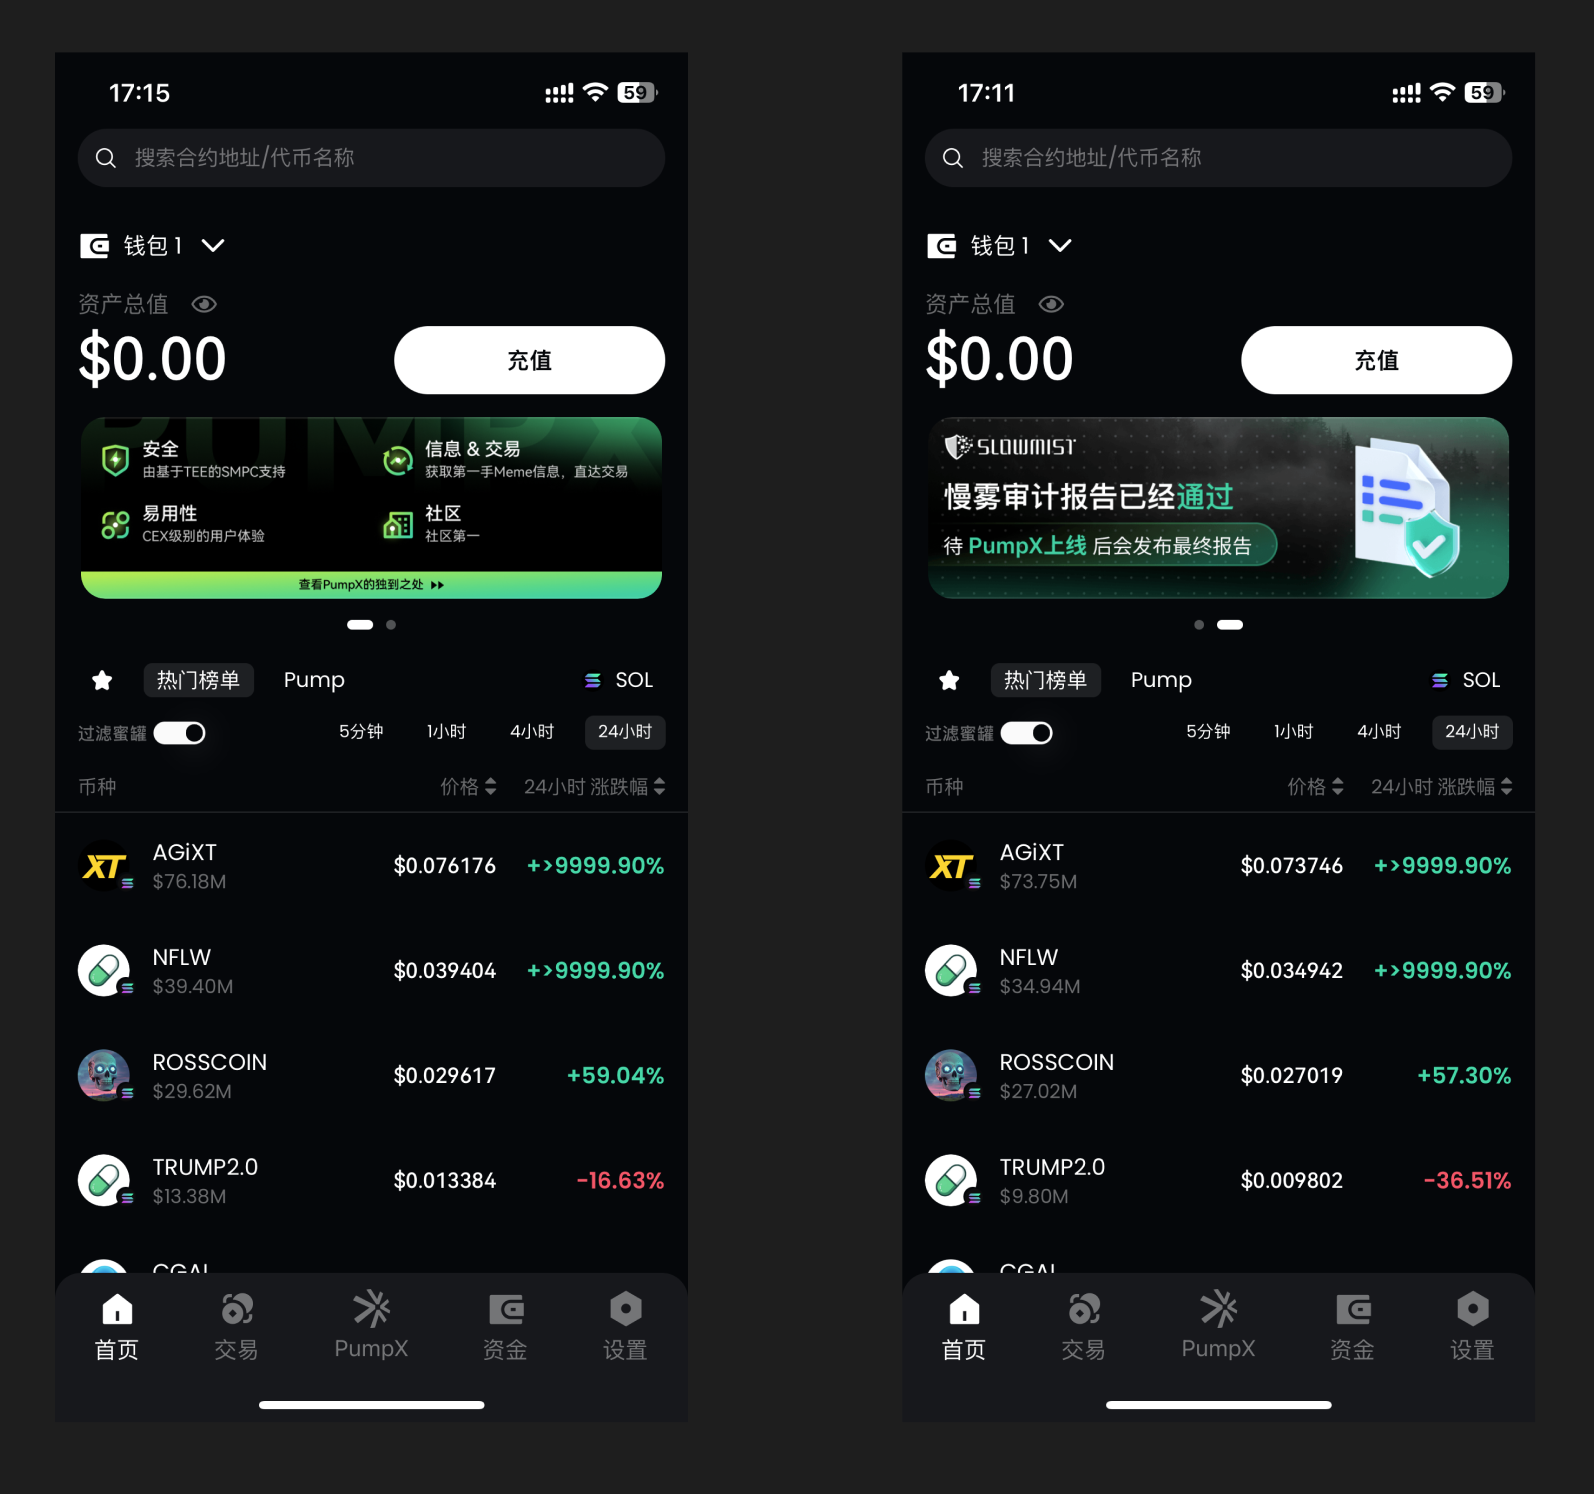
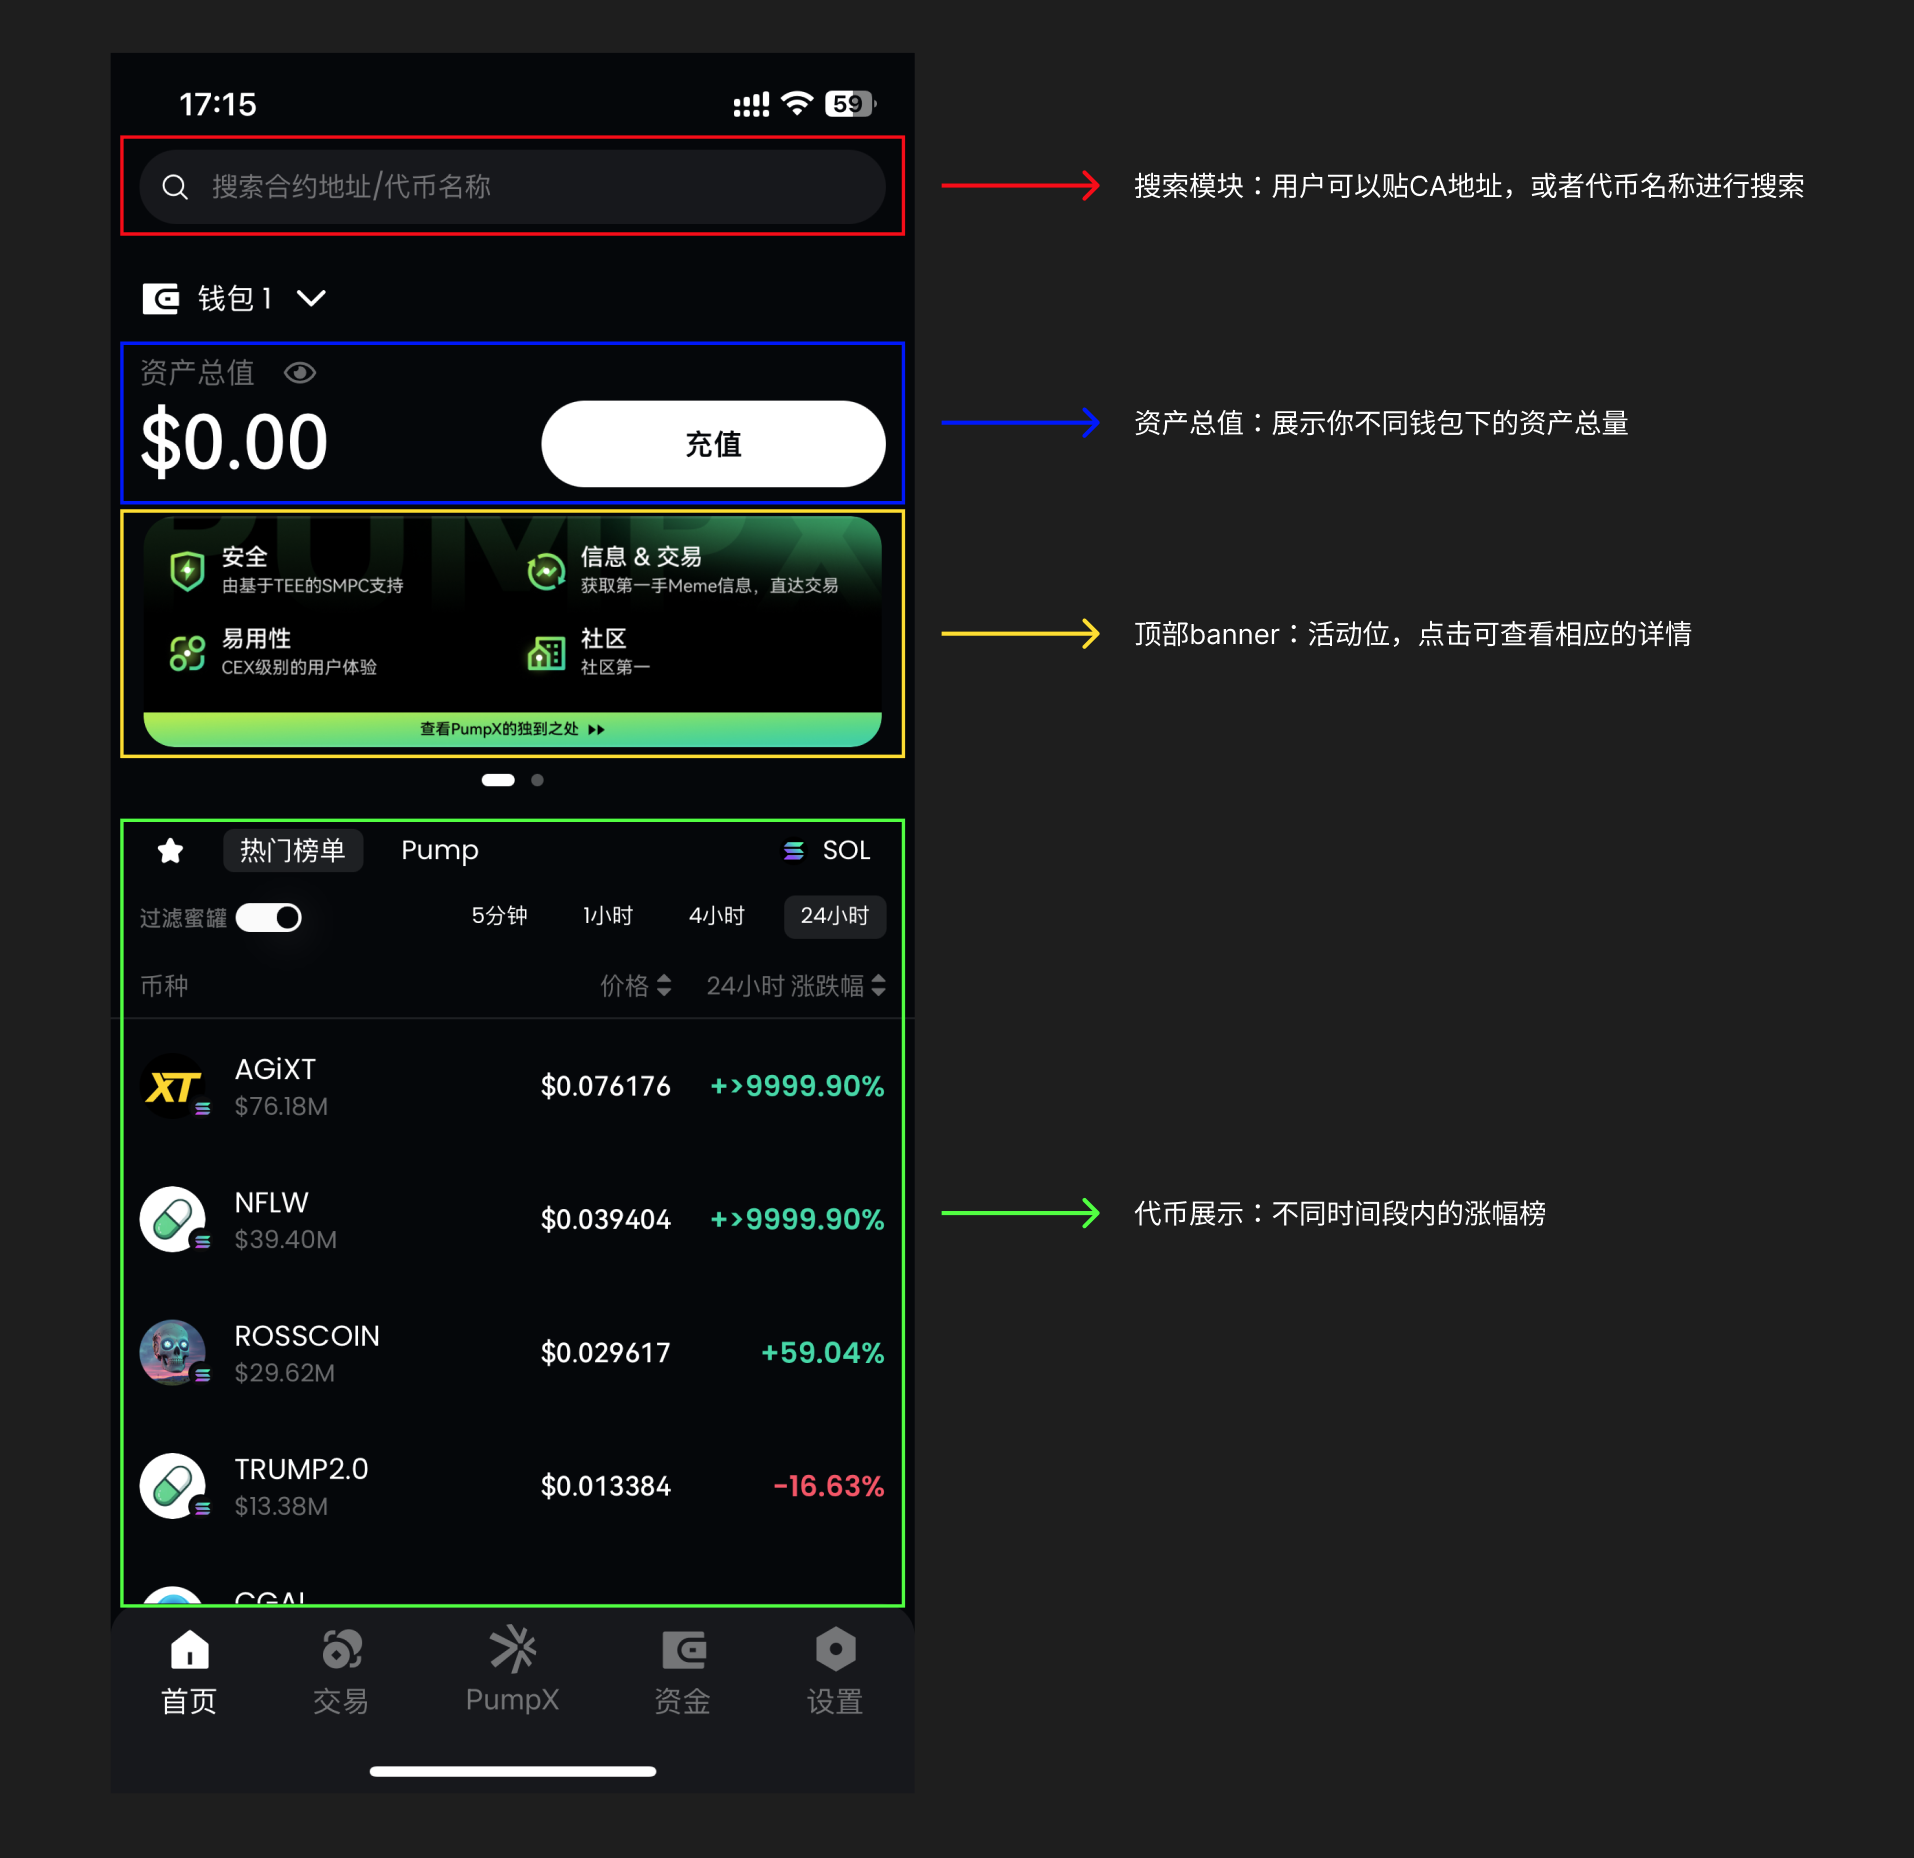
GITBOOK-34: No subject

diff --git a/pumpx-jie-shao/quickstart.md b/pumpx-jie-shao/quickstart.md
@@ -4,17 +4,76 @@ icon: globe-pointer
 
 # 快速上手
 
-### 1. 首页
+### 1. 下载App
+
+目前苹果应用商店和谷歌应用商店均在审核中，暂时用户需要通过 「官网」 或者 「邀请链接」 进行下载。
+
+* 通过 「官网」：点击 [https://www.pumpx.ai](https://www.pumpx.ai) 进入官网。如果你是苹果手机，点击左侧按钮下载；如果你是安卓手机，点击右侧按钮下载
+
+<figure><img src="../.gitbook/assets/下载.png" alt=""><figcaption></figcaption></figure>
+
+如果你是苹果手机，点击红圈中的按钮后，会跳转至以下页面：
+
+* 如果你有Testflight App，则可以直接点击第二步中的按钮去下载 PumpX App
+* 如果你没有Testflight App，则可以从第一步开始去苹果应用商店先下载Testflight App，之后再点击第二步中的按钮，去下载 PumpX App
+
+如果你是安卓手机，点击蓝圈中的按钮后，会直接开始下载安卓APK，下载到本地后，可以直接点击进行应用安装
+
+* 如果你是小米或者华为的手机，可能存在安装的时候该机型不允许你安装的提示，不用担心产品的风险，我们已经通过了顶级安全公司 「慢雾」 的审计，此时直接断网或者开启飞行模式后，再次安装即可
+
+
+
+你也有可能是通过点击他人发给你的邀请链接进行下载安装，以此邀请链接为例：[https://www.pumpx.ai/refer?inviteCode=JAZLII](https://www.pumpx.ai/refer?inviteCode=JAZLII)。 当你点击此链接后，会直接弹出注册的页面，按照步骤完成注册账号之后，再去下载App进行登录使用。
+
+
+
+### 2. App首页
 
 <figure><img src="../.gitbook/assets/image.png" alt=""><figcaption></figcaption></figure>
 
-* 用户可以通过复制CA或者代币名称进行搜索
-* 顶部展示的轮播图，用户可以点击后查看详情内容
-* 底部展示的是不同时间段内，涨跌幅靠前的相应热门代币
+使用你注册好的账号进行登录后，你会进入到App首页。首页包含4个模块，如上图所示：
 
-### 2. 交易
+1. 搜索模块：你可以通过粘贴CA或者代币的名称进行搜索，然后交易
+2. 资产模块：首页会罗列出当前钱包下你的资产总量，你可以切换钱包进行不同钱包的查询
+3. 顶部banner：运营活动位，会根据市场环境的变化，展示不同的banner
+4. 代币展示：根据时间段的不同，展示对应的涨幅排行榜
+
+
+
+### 3. 充值（入金）
+
+如果你是刚登录App，那么首页会展示「充值」入口，如2中的图片所示。你也可以通过在「资金」页面，点击「充值」进行入金。
+
+<figure><img src="../.gitbook/assets/image (2).png" alt=""><figcaption></figcaption></figure>
+
+在这个页面中，你可以看到一个二维码和一串Solana地址。接下来以币安交易所为例，如何通过币安交易所进行转账至PumpX钱包中（注：其他的交易所也是类似的步骤）。
 
 <figure><img src="../.gitbook/assets/image (3).png" alt=""><figcaption></figcaption></figure>
+
+1. 首先确保你的交易所钱包中有SOL资产，然后在交易所中对SOL进行提现
+2. 第一步：对SOL资产进行提现，点击「提现」按钮
+3. 第二步：选择 「通过区块链转账」&#x20;
+4. 第三步：此处需要填写地址和选择网络。地址就填写你PumpX中收款页面的地址，网络则选择Solana网络。接下来再填写你需要转账的Sol数量
+5. 第四步：全部填写完毕后，点击「提现」，然后等待Sol网络执行你的操作，过一会你就应该能在PumpX资产页面看到对应的Sol数量
+
+现在你已经有了Sol的资产了，可以进行「交易」相关的操作了。
+
+
+
+### 4. 交易
+
+目前PumpX有3大交易的场景：
+
+1. 首页有基于不同时间段内的涨幅排行榜，这就相当于全网该网络下交易量最靠前的代币
+2. PumpX主打的AI推荐代币的地方，即中间的PumpX，我们基于代币的k线量价、市场的趋势热度、聪明钱的买卖信息等综合在一起的信号进行AI代币推荐。里面有2种推荐代币的逻辑，侧重点有所不同。左侧的 「AI代理」 更侧重于聪明钱和代币的k线量价，右侧的 「推特新闻」 更侧重于市场的趋势信息
+   1. AI代理区分了2种模式，一种是「激进版」，用来博取更高倍率的收益；一种是「保守版」，更多是在保障用户本金的情况下能有一些收益。
+   2. 推特新闻则是基于市场的趋势变化下，我们挑选出的与代币相关的一些热门内容。推特账号处罗列出了该账号的关注人数（包含是否有著名关注者）、推文数量、历史是否改名过等描述，进一步帮助用户确认相关信息
+
+<figure><img src="../.gitbook/assets/image (4).png" alt=""><figcaption></figcaption></figure>
+
+3. 通过搜索直接进行相应的代币购买。用户可以通过直接贴CA的方式进行搜索，也可以搜索代币的名称进行查询
+
+<figure><img src="../.gitbook/assets/image (5).png" alt=""><figcaption></figcaption></figure>
 
 * 点击代币后进入代币详情页：
   * 顶部展示代币的4个参数，24h成交额、流通市值、持有人、24h交易额
@@ -24,9 +83,5 @@ icon: globe-pointer
 * 买入一个代币，支持3种模式，一键买入、市价交易、限价委托
 * 卖出一个代币，支持4种模式，一键卖出、市价交易、限价委托、移动止盈止损
 
-### 3. 信息流（PumpX页面）
+<figure><img src="../.gitbook/assets/image (3) (1).png" alt=""><figcaption></figcaption></figure>
 
-<figure><img src="../.gitbook/assets/中文.png" alt=""><figcaption></figcaption></figure>
-
-* 我们有2种不同的AI Agent，一个是激进版、一个是保守版，激进版的AI会推出更多可能带来高倍率的代币，保守版的AI则更多会在保护你本金的基础上，推荐一些买入可能会有涨幅的代币
-* PumpX信息流页面则是聚合了X上与Crypto相关有热度的帖子，帖子中带有代币的相关信息
